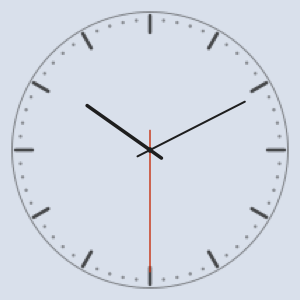
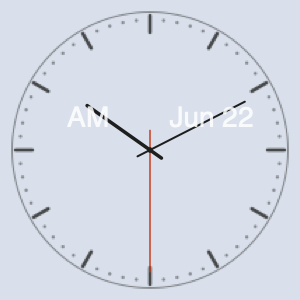
Add community skin previews and AM/PM+date to screenshots
- README now shows 5 community skin previews (Azul, BallClockAmber,
  Citizen, WidestoneStudios, White_Apple_Clock) alongside the 3
  built-in originals
- generate_screenshots.swift adds AM/PM and date overlays to all
  previews, and supports community skin rendering

Changed region(s): [[0.57, 0.36, 0.72, 0.45], [0.21, 0.36, 0.36, 0.42], [0.75, 0.36, 0.84, 0.45]]

diff --git a/Tools/generate_screenshots.swift b/Tools/generate_screenshots.swift
@@ -1,8 +1,9 @@
 #!/usr/bin/env swift
-// Generates README preview screenshots for each default skin.
+// Generates README preview screenshots.
 // Run: swift Tools/generate_screenshots.swift
 import Foundation
 import CoreGraphics
+import CoreText
 import ImageIO
 
 // MARK: - INI parser
@@ -34,18 +35,48 @@ func parseBGR(_ s: String) -> (r: CGFloat, g: CGFloat, b: CGFloat)? {
             CGFloat((raw >> 16) & 0xFF) / 255)
 }
 
-// MARK: - Render one skin to a CGContext
+// MARK: - Text rendering
+
+func drawText(_ text: String, cx: CGFloat, cy: CGFloat,
+              fontSize: CGFloat, color: CGColor, in ctx: CGContext, canvasH: Int) {
+    let font = CTFontCreateWithName("Helvetica" as CFString, fontSize, nil)
+    let attrs: [CFString: Any] = [
+        kCTFontAttributeName: font,
+        kCTForegroundColorAttributeName: color
+    ]
+    let attrStr = CFAttributedStringCreate(nil, text as CFString, attrs as CFDictionary)!
+    let line = CTLineCreateWithAttributedString(attrStr)
+    let bounds = CTLineGetBoundsWithOptions(line, [])
+    let x = cx - bounds.width / 2
+    let y = CGFloat(canvasH) - cy - bounds.height / 2 - bounds.origin.y
+    ctx.saveGState()
+    ctx.textPosition = CGPoint(x: x, y: y)
+    CTLineDraw(line, ctx)
+    ctx.restoreGState()
+}
+
+// MARK: - Render one skin
 
 let OUTPUT_SIZE: Int = 300
 let PAD: CGFloat = 10
 
+// Fixed preview time: 10:10:30 AM, Jun 22
+let PREVIEW_HOUR = 10, PREVIEW_MIN = 10, PREVIEW_SEC = 30
+let PREVIEW_AMPM = "AM"
+let PREVIEW_DATE = "Jun 22"
+
 func renderSkin(skinName: String, skinsDir: URL, outputDir: URL,
-                bgR: CGFloat, bgG: CGFloat, bgB: CGFloat) {
-    let imageURL = skinsDir.appendingPathComponent("\(skinName).png")
-    let iniURL   = skinsDir.appendingPathComponent("\(skinName).ini")
+                bgR: CGFloat, bgG: CGFloat, bgB: CGFloat,
+                showAmPm: Bool = true, showDate: Bool = true) {
+    // Try PNG first, then BMP
+    var imageURL = skinsDir.appendingPathComponent("\(skinName).png")
+    if !FileManager.default.fileExists(atPath: imageURL.path) {
+        imageURL = skinsDir.appendingPathComponent("\(skinName).bmp")
+    }
+    let iniURL = skinsDir.appendingPathComponent("\(skinName).ini")
     guard let src = CGImageSourceCreateWithURL(imageURL as CFURL, nil),
           let faceImg = CGImageSourceCreateImageAtIndex(src, 0, nil) else {
-        print("  ✗ could not load \(skinName).png"); return
+        print("  ✗ could not load \(skinName)"); return
     }
 
     let ini = parseINI(at: iniURL)
@@ -64,21 +95,18 @@ func renderSkin(skinName: String, skinsDir: URL, outputDir: URL,
     }
 
     let faceRef = min(imgW, imgH)
-    let hourH   = hand("HourColor",   "HourLength",   "HourLap",   "HourWidth",
-                        defaultColor: (0,0,0), defaultLen: faceRef * 0.23)
-    let minH    = hand("MinuteColor", "MinuteLength", "MinuteLap", "MinuteWidth",
-                        defaultColor: (0,0,0), defaultLen: faceRef * 0.32)
-    let secH    = hand("SecondColor", "SecondLength", "SecondLap", "SecondWidth",
-                        defaultColor: (1,0,0), defaultLen: faceRef * 0.35)
+    let hourH = hand("HourColor",   "HourLength",   "HourLap",   "HourWidth",
+                     defaultColor: (0,0,0), defaultLen: faceRef * 0.23)
+    let minH  = hand("MinuteColor", "MinuteLength", "MinuteLap", "MinuteWidth",
+                     defaultColor: (0,0,0), defaultLen: faceRef * 0.32)
+    let secH  = hand("SecondColor", "SecondLength", "SecondLap", "SecondWidth",
+                     defaultColor: (1,0,0), defaultLen: faceRef * 0.35)
 
-    // Time: 10:10:30 — classic "smile" pose
-    let h = 10, m = 10, s = 30
-    let frac = Double(s)
-    let hourAngle = CGFloat(.pi/2 - Double(h % 12) * .pi/6  - Double(m) * .pi/360 - frac * .pi/21600)
-    let minAngle  = CGFloat(.pi/2 - Double(m) * .pi/30 - frac * .pi/1800)
+    let frac = Double(PREVIEW_SEC)
+    let hourAngle = CGFloat(.pi/2 - Double(PREVIEW_HOUR % 12) * .pi/6 - Double(PREVIEW_MIN) * .pi/360 - frac * .pi/21600)
+    let minAngle  = CGFloat(.pi/2 - Double(PREVIEW_MIN) * .pi/30 - frac * .pi/1800)
     let secAngle  = CGFloat(.pi/2 - frac * .pi/30)
 
-    // Canvas
     let sz = OUTPUT_SIZE
     guard let ctx = CGContext(data: nil, width: sz, height: sz,
                               bitsPerComponent: 8, bytesPerRow: sz * 4,
@@ -90,7 +118,7 @@ func renderSkin(skinName: String, skinsDir: URL, outputDir: URL,
     ctx.setFillColor(red: bgR, green: bgG, blue: bgB, alpha: 1)
     ctx.fill(CGRect(x: 0, y: 0, width: sz, height: sz))
 
-    // Scale factor: fit the longer dimension into (sz - 2*PAD)
+    // Scale + position face
     let available = CGFloat(sz) - PAD * 2
     let scale = available / max(imgW, imgH)
     let drawW = imgW * scale, drawH = imgH * scale
@@ -98,14 +126,13 @@ func renderSkin(skinName: String, skinsDir: URL, outputDir: URL,
     let oy = CGFloat(sz) / 2 - drawH / 2
     let faceRect = CGRect(x: ox, y: oy, width: drawW, height: drawH)
 
-    // Draw face — apply red cut-color mask for non-alpha images
+    // Apply cut-color mask for BMP / non-alpha images
     let alpha = faceImg.alphaInfo
     let hasAlpha = alpha != .none && alpha != .noneSkipFirst && alpha != .noneSkipLast
     let drawImg: CGImage
     if hasAlpha {
         drawImg = faceImg
     } else {
-        // mask red pixels transparent
         let w = faceImg.width, hh = faceImg.height
         if let mctx = CGContext(data: nil, width: w, height: hh,
                                 bitsPerComponent: 8, bytesPerRow: w * 4,
@@ -126,7 +153,7 @@ func renderSkin(skinName: String, skinsDir: URL, outputDir: URL,
     }
     ctx.draw(drawImg, in: faceRect)
 
-    // Clock center in canvas coords (CGContext: origin bottom-left)
+    // Clock center in canvas coords
     let ccx = ox + cx * scale
     let ccy = oy + (imgH - cy) * scale
 
@@ -151,13 +178,33 @@ func renderSkin(skinName: String, skinsDir: URL, outputDir: URL,
     ctx.setFillColor(red: hourH.color.0, green: hourH.color.1, blue: hourH.color.2, alpha: 1)
     ctx.fillPath()
 
+    // AM/PM overlay — bottom-left of face, small font, semi-transparent white
+    if showAmPm {
+        let fsize = drawW * 0.10
+        let tx = ox + drawW * 0.28
+        let ty = CGFloat(sz) - (oy + drawH * 0.38)  // screen-space Y (top-down)
+        let color = CGColor(red: 1, green: 1, blue: 1, alpha: 0.85)
+        drawText(PREVIEW_AMPM, cx: tx, cy: CGFloat(sz) - ty,
+                 fontSize: fsize, color: color, in: ctx, canvasH: sz)
+    }
+
+    // Date overlay — bottom-right of face
+    if showDate {
+        let fsize = drawW * 0.10
+        let tx = ox + drawW * 0.72
+        let ty = CGFloat(sz) - (oy + drawH * 0.38)
+        let color = CGColor(red: 1, green: 1, blue: 1, alpha: 0.85)
+        drawText(PREVIEW_DATE, cx: tx, cy: CGFloat(sz) - ty,
+                 fontSize: fsize, color: color, in: ctx, canvasH: sz)
+    }
+
     // Save
     guard let img = ctx.makeImage() else { print("  ✗ makeImage failed"); return }
     let outURL = outputDir.appendingPathComponent("\(skinName).png")
     let dest = CGImageDestinationCreateWithURL(outURL as CFURL, "public.png" as CFString, 1, nil)!
     CGImageDestinationAddImage(dest, img, nil)
     CGImageDestinationFinalize(dest)
-    print("  \(skinName).png → Screenshots/")
+    print("  ✓ \(skinName).png → Screenshots/")
 }
 
 // MARK: - Run
@@ -167,11 +214,25 @@ let skinsDir = root.appendingPathComponent("Skins")
 let outDir   = root.appendingPathComponent("Screenshots")
 
 print("Generating screenshots…")
-// Light desktop bg for Classic and Outline; dark for Dark
+
+// Built-in originals
 renderSkin(skinName: "KlokClassic", skinsDir: skinsDir, outputDir: outDir,
            bgR: 0.92, bgG: 0.92, bgB: 0.94)
 renderSkin(skinName: "KlokDark",    skinsDir: skinsDir, outputDir: outDir,
            bgR: 0.18, bgG: 0.18, bgB: 0.20)
 renderSkin(skinName: "KlokOutline", skinsDir: skinsDir, outputDir: outDir,
            bgR: 0.85, bgG: 0.88, bgB: 0.92)
+
+// Community ClocX skins
+renderSkin(skinName: "Azul",             skinsDir: skinsDir, outputDir: outDir,
+           bgR: 0.10, bgG: 0.12, bgB: 0.18)
+renderSkin(skinName: "BallClockAmber",   skinsDir: skinsDir, outputDir: outDir,
+           bgR: 0.14, bgG: 0.12, bgB: 0.10)
+renderSkin(skinName: "Citizen",          skinsDir: skinsDir, outputDir: outDir,
+           bgR: 0.88, bgG: 0.88, bgB: 0.90)
+renderSkin(skinName: "WidestoneStudios", skinsDir: skinsDir, outputDir: outDir,
+           bgR: 0.12, bgG: 0.12, bgB: 0.12)
+renderSkin(skinName: "White_Apple_Clock", skinsDir: skinsDir, outputDir: outDir,
+           bgR: 0.20, bgG: 0.20, bgB: 0.22)
+
 print("Done.")

diff --git a/README.en.md b/README.en.md
@@ -10,7 +10,15 @@ A macOS menu-bar clock inspired by the classic Windows freeware **ClocX**. Displ
 |:-----------:|:--------:|:-----------:|
 | ![KlokClassic](Screenshots/KlokClassic.png) | ![KlokDark](Screenshots/KlokDark.png) | ![KlokOutline](Screenshots/KlokOutline.png) |
 
-> Thousands of community ClocX skins are also supported. These are the three built-in originals.
+> These are the three built-in originals. Download the skin pack to load hundreds of community skins — a few examples:
+
+| Azul | BallClockAmber | Citizen |
+|:----:|:--------------:|:-------:|
+| ![Azul](Screenshots/Azul.png) | ![BallClockAmber](Screenshots/BallClockAmber.png) | ![Citizen](Screenshots/Citizen.png) |
+
+| WidestoneStudios | White Apple Clock |
+|:----------------:|:-----------------:|
+| ![WidestoneStudios](Screenshots/WidestoneStudios.png) | ![White_Apple_Clock](Screenshots/White_Apple_Clock.png) |
 
 ## Features
 

diff --git a/README.md b/README.md
@@ -10,7 +10,15 @@ macOS 菜单栏模拟时钟，仿照经典 Windows 工具 **ClocX** 设计。支
 |:-----------:|:--------:|:-----------:|
 | ![KlokClassic](Screenshots/KlokClassic.png) | ![KlokDark](Screenshots/KlokDark.png) | ![KlokOutline](Screenshots/KlokOutline.png) |
 
-> 支持加载任意 ClocX 社区皮肤，以上为内置原创皮肤。
+> 以上为内置原创皮肤。下载皮肤包后可加载数百款 ClocX 社区皮肤，部分示例：
+
+| Azul | BallClockAmber | Citizen |
+|:----:|:--------------:|:-------:|
+| ![Azul](Screenshots/Azul.png) | ![BallClockAmber](Screenshots/BallClockAmber.png) | ![Citizen](Screenshots/Citizen.png) |
+
+| WidestoneStudios | White Apple Clock |
+|:----------------:|:-----------------:|
+| ![WidestoneStudios](Screenshots/WidestoneStudios.png) | ![White_Apple_Clock](Screenshots/White_Apple_Clock.png) |
 
 ## 功能特性
 